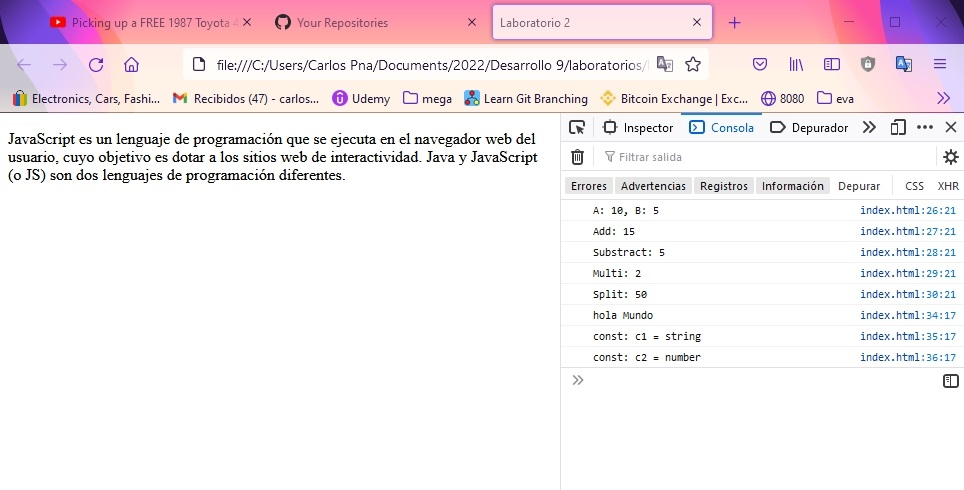
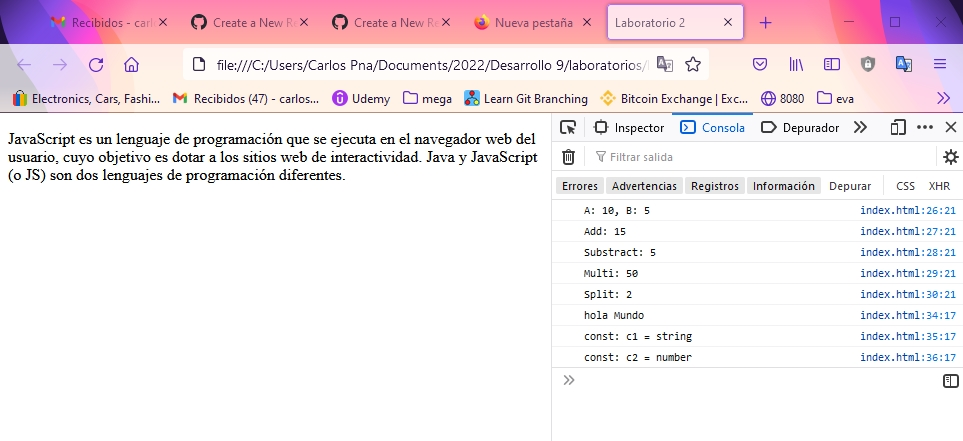
uploading labs

Changed region(s): [[0.0, 0.0, 1.0, 0.8844], [0.9034, 0.0295, 0.9346, 0.059]]

diff --git a/lab3/index.html b/lab3/index.html
@@ -9,7 +9,7 @@
 <body>
 
     <div>
-        <label for="primero">1. ingrese un numero: </label>
+        <label for="primero">1. ingrese un número: </label>
         <input id="primero" type="number">
         <input onclick="doublePalindrome()" type="submit" value="Palindromo?">
         <p id="res1">...</p>
@@ -30,7 +30,7 @@
     </div>
     <hr>
     <div>
-        <label for="cuarto">4. ingrese un numero</label>
+        <label for="cuarto">4. ingrese un número</label>
         <input id="cuarto" type="text">
         <input onclick="add()" type="submit" value="Sumar">
         <p id="res4">...</p>

diff --git a/lab2/index.html b/lab2/index.html
@@ -26,8 +26,8 @@
             console.log("A: "+a+", B: "+b);
             console.log("Add: "+(a+b));
             console.log("Substract: "+(a-b));
-            console.log("Multi: "+a/b);
-            console.log("Split: "+a*b);
+            console.log("Multi: "+a*b);
+            console.log("Split: "+a/b);
         }
 
         print(a,b);
